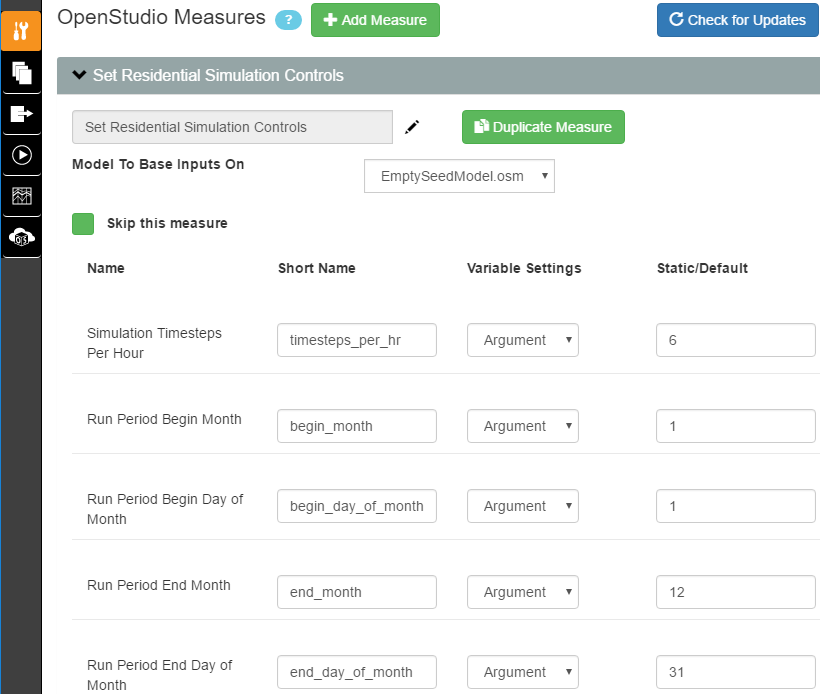
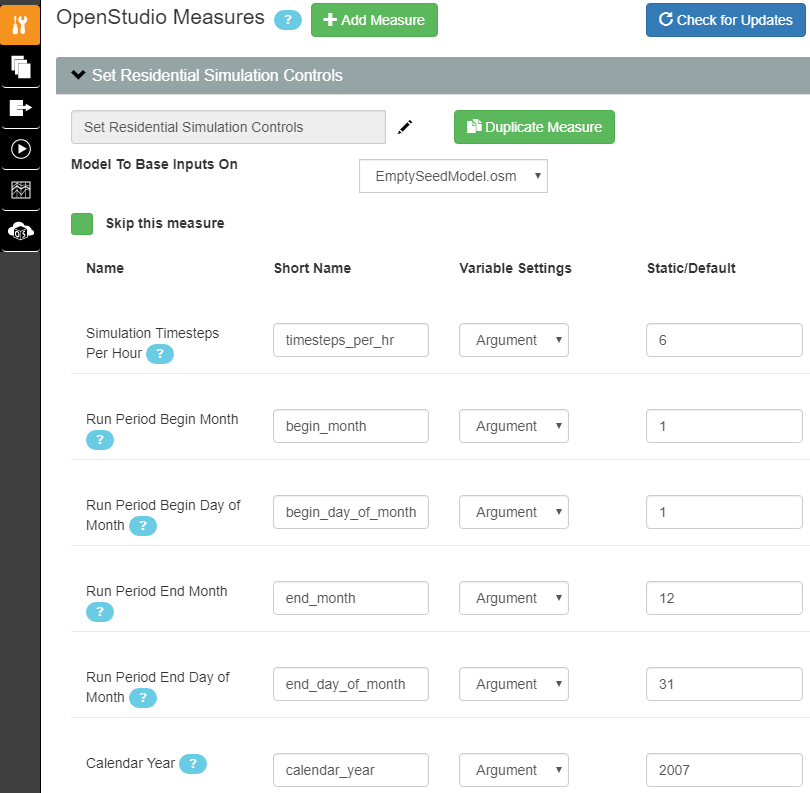
Add new arg to docs.

diff --git a/docs/read_the_docs/source/tutorial/setup_analysis_project.rst b/docs/read_the_docs/source/tutorial/setup_analysis_project.rst
@@ -121,7 +121,7 @@ Continuing on the Measures Selection tab, scroll down to the **OpenStudio Measur
 Simulation Controls
 ^^^^^^^^^^^^^^^^^^^
 
-Using this measure you can set the simulation timesteps per hour, as well as the run period begin month/day and end month/day. By default the simulations use a 10-min timestep (i.e., the number of timesteps per hour is 6), start on January 1, and end on December 31.
+Using this measure you can set the simulation timesteps per hour, the run period begin month/day and end month/day, and the calendar year (for start day of week). By default the simulations use a 10-min timestep (i.e., the number of timesteps per hour is 6), start on January 1, end on December 31, and run with a calendar year of 2007 (start day of week is Monday).
 
 .. image:: ../images/tutorial/simulation_controls.png
 
